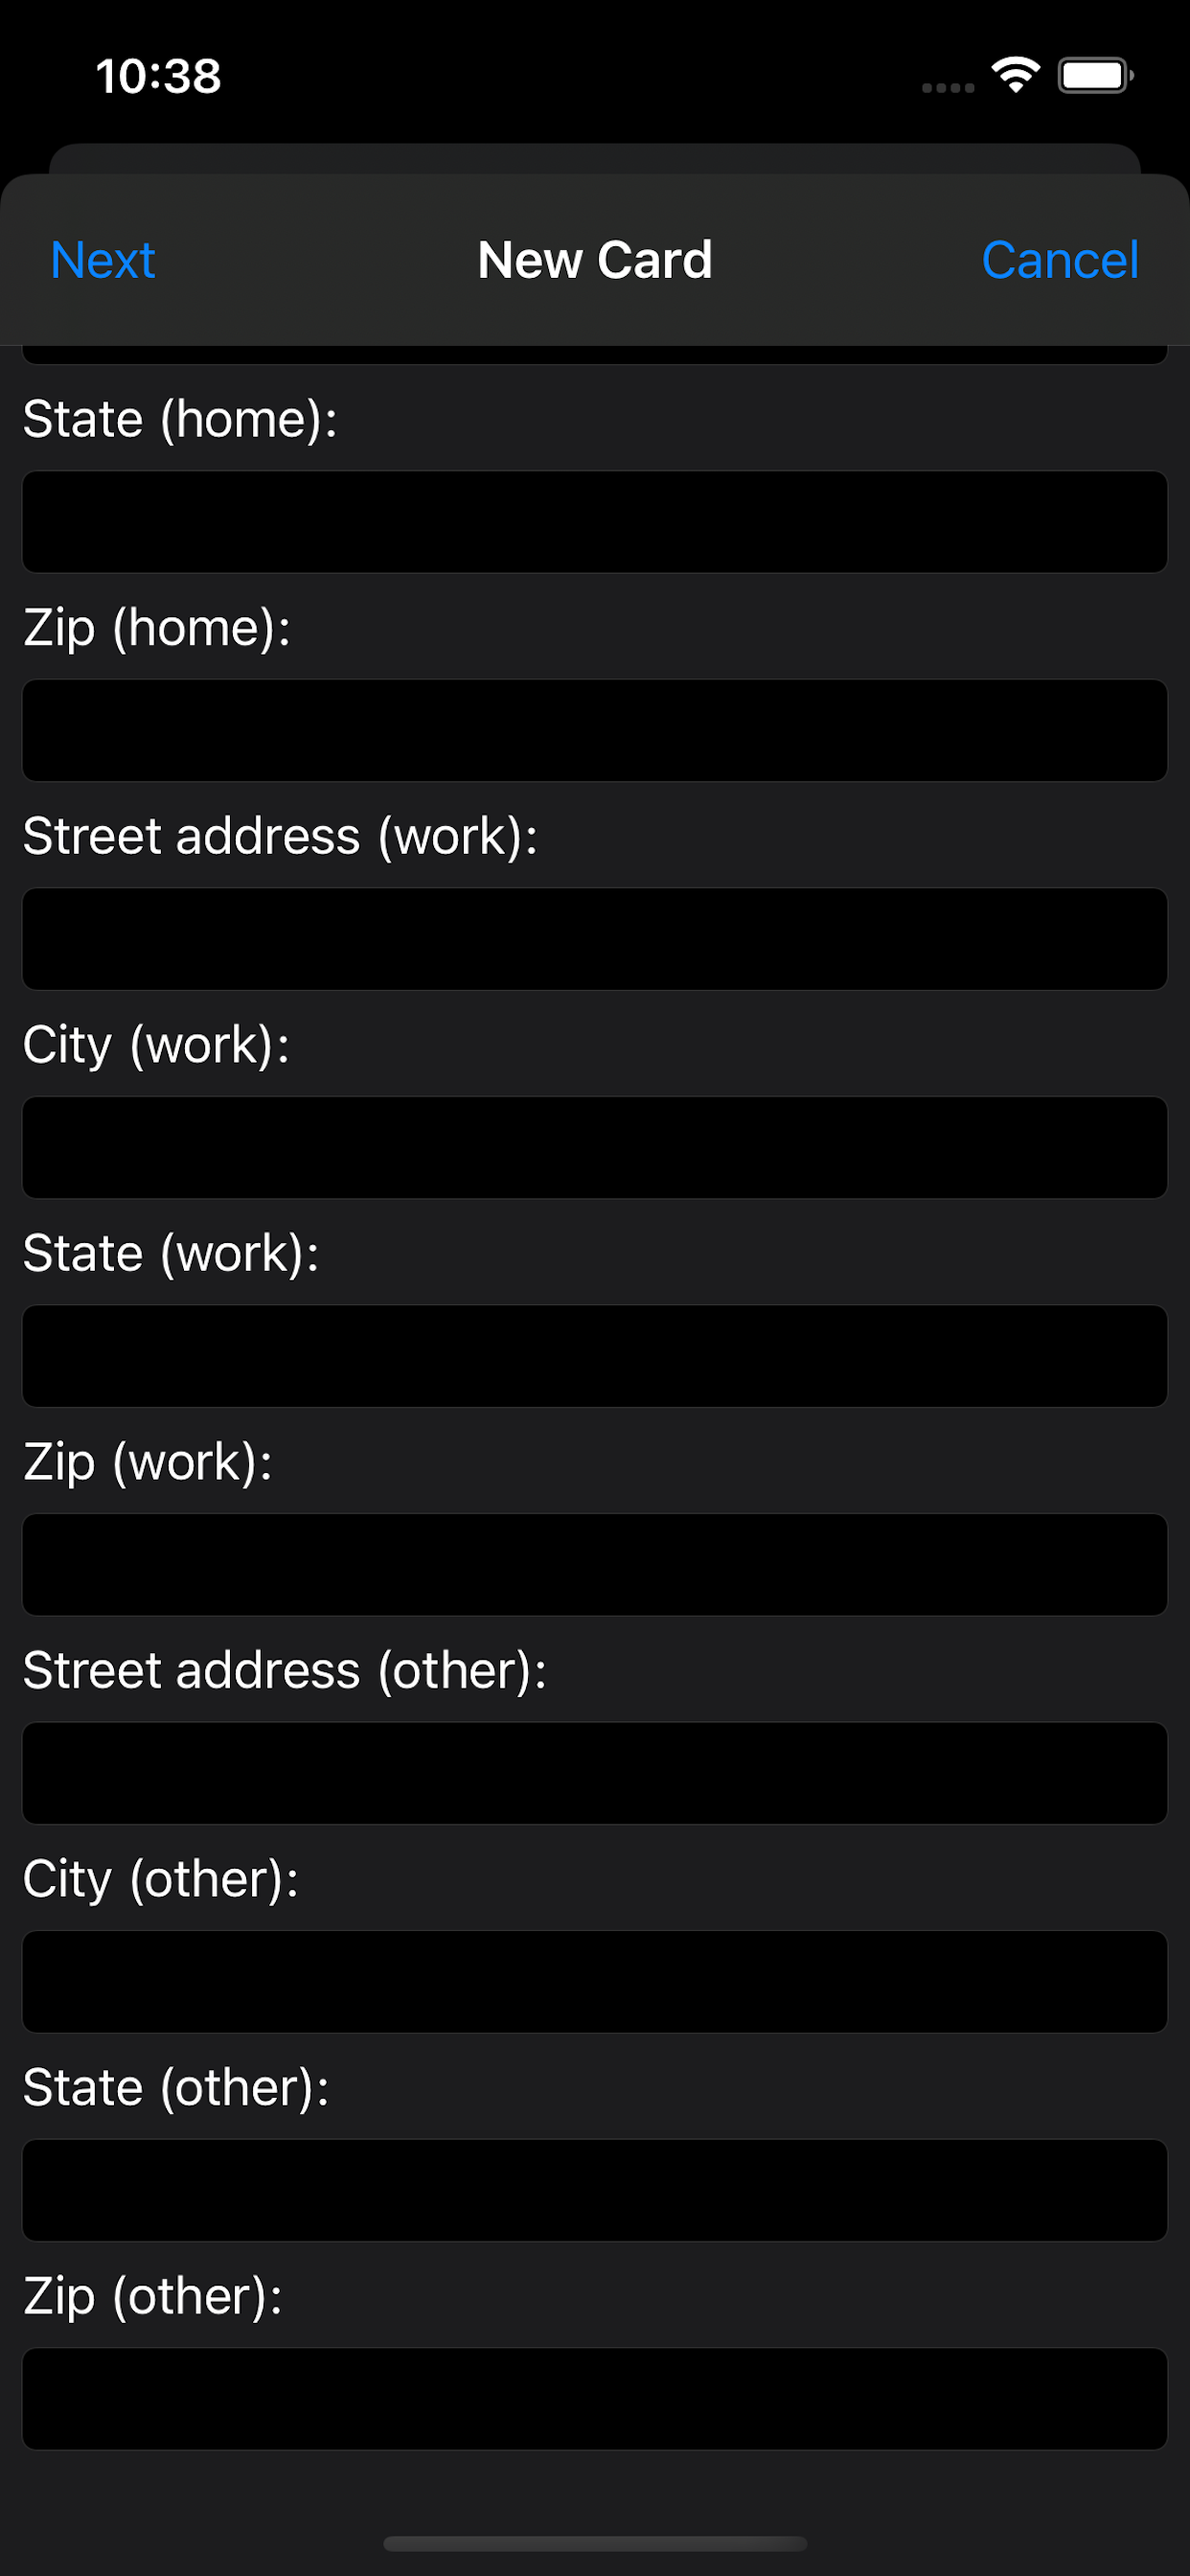
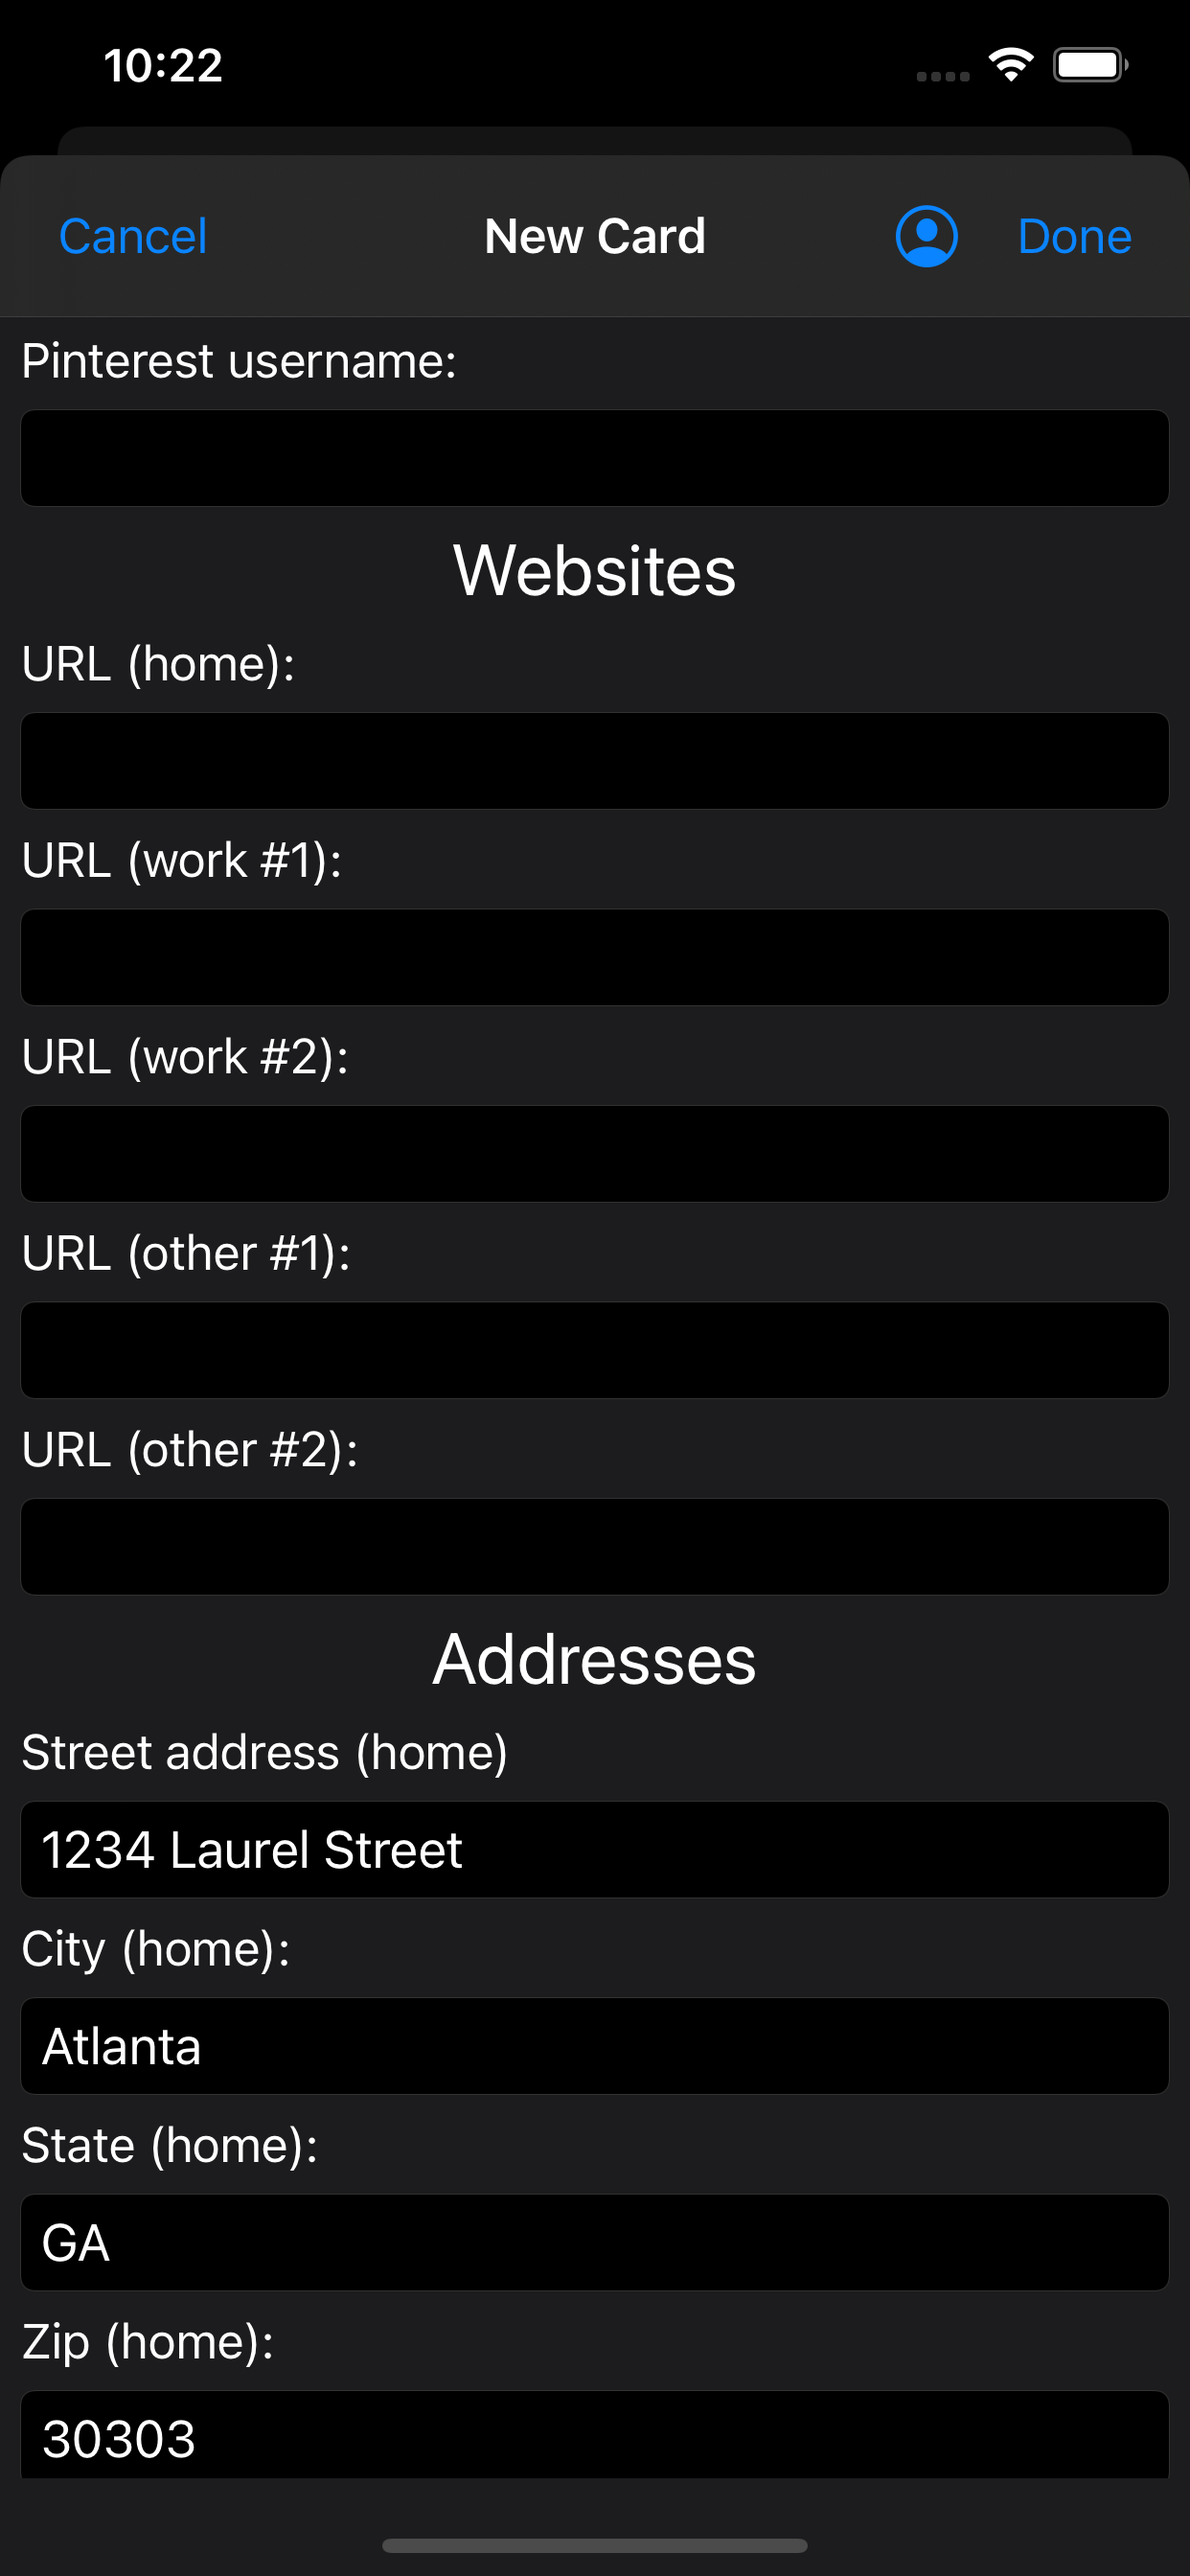
For Contact Cards, removed Mac view from UI, updated images and added siri image, and added a watch tab.

diff --git a/src/pages/ContactCardsPage.js b/src/pages/ContactCardsPage.js
@@ -2,27 +2,39 @@
 import React, { useEffect, useState } from 'react';
 import ContactCardsMobileView from '../components/ContactCardsMobileView'
 import ContactCardsTabletView from '../components/ContactCardsTabletView'
-import ContactCardsDesktopView from '../components/ContactCardsDesktopView'
+import ContactCardsWatchView from '../components/ContactCardsWatchView'
+
 
 const contactCardsInfo={
   title: 'Contact Cards',
-  header: `Have multiple color-coded contact cards for yourself so you 
-  can share what you want with whom you want, whether or not they 
-  have the app.  Share virtually or with a QR code.`,
+  header: `Have multiple named and color-coded contact cards for yourself of your choosing
+  so that you can share what you want with whom you want, whether or not they 
+  have the app.  Share virtually or with a QR code.  No account needed, and 
+  syncs with iCloud.  You can share virtually by Messages, Mail, AirDrop, or
+  by any apps you have that support recieving contacts in vCard format.`,
   detail: `Preview a contact card before sharing it.`,
   qrCode: `When sharing with QR Codes, you can share with colorful QR
   codes.  No neeed to be constrained to black and white.  Your color and 
   filename for the contact card will not be shared.`,
-  sharableInfo: `Shareable information is: first name, last name, nickname,
+  sharableInfo: `Choose color and title for card.  Shareable information is: first name, last name, nickname,
   suffix, prefix, company, job title, department, mobile phone, 2 work phones,
   home phone, other phone, home email, 2 work emails, other email, Twitter username,
-  Facebook URL, LinkedIn URL, home URL, 2 work URLs, 2 other URLs, home address,
-  work address, other address.`,
+  Facebook URL, LinkedIn URL, WhatsApp number, Instagram username, Snapchat username, Pinterest username, 
+  home URL, 2 work URLs, 2 other URLs, home address, work address, other address.`,
   colors: `Color choices are white in dark mode/black in light mode, gray, 
   red, orange, yellow, green, blue, purple, pink, and brown.  Please note: 
   color choices are private to you and will not share when you share the 
   contact as a file, whether virtually or in a QR code.`,
-  widget: `Comes with a widget to display a qr code for a contact card of your choosing.`
+  widget: `Comes with a widget to display a QR code for a contact card of your choosing.`,
+  siri: `Share a QR code of a chosen card with Siri.`
+}
+const contactCardsWatchInfo={
+  title: `Contact Cards Watch Companion App`,
+  header: `Share small contact cards directly from your watch by colorful QR code.  
+  App syncs over iCloud to get your contact cards from the ContactCards app from 
+  your phone or tablet.`,
+  detail: `See contact details directly from the watch so that you can confirm 
+  that you are sharing what you want to share.`
 }
 const ContactCardsPage = () => {
   useEffect(()=>{document.title = "Contact Cards"})
@@ -38,7 +50,7 @@ const ContactCardsPage = () => {
         <div className="text-align-center">
           <span className={getTabClassName('mobile')} onClick={()=>setCurrentTab('mobile')}>Mobile</span>
           <span className={getTabClassName('tablet')} onClick={()=>setCurrentTab('tablet')}>Tablet</span>
-          <span className={getTabClassName('desktop')} onClick={()=>setCurrentTab('desktop')}>Desktop</span>
+          <span className={getTabClassName('watch')} onClick={()=>setCurrentTab('watch')}>Watch</span>
         </div>
         <br/>
         <hr/>
@@ -61,8 +73,8 @@ const ContactCardsPage = () => {
         return (<ContactCardsMobileView info={contactCardsInfo}/>);
       } else if (currentTab==='tablet') {
         return (<ContactCardsTabletView info={contactCardsInfo}/>);
-      } else if (currentTab==='desktop') {
-        return (<ContactCardsDesktopView info={contactCardsInfo}/>);
+      } else if (currentTab==='watch') {
+        return (<ContactCardsWatchView info={contactCardsWatchInfo}/>);
       } else {
         return (<div></div>);
       }

diff --git a/src/components/ContactCardsTabletView.js b/src/components/ContactCardsTabletView.js
@@ -1,24 +1,32 @@
 import React from 'react'
-import ContactCardsMain from "../resources/ContactCardsiPad/ContactCardsMain.png";
+import ContactCardsMain1 from "../resources/ContactCardsiPad/ContactCardsMain1.png";
+import ContactCardsMain2 from "../resources/ContactCardsiPad/ContactCardsMain2.png";
 import ContactCardsQRCode from "../resources/ContactCardsiPad/ContactCardsQRCode.png";
 import { Carousel } from 'react-responsive-carousel';
 import ContactCardsFields1 from "../resources/ContactCardsiPad/ContactCardsFields1.png";
 import ContactCardsFields2 from "../resources/ContactCardsiPad/ContactCardsFields2.png";
 import ContactCardsFields3 from "../resources/ContactCardsiPad/ContactCardsFields3.png";
-import ContactCardColors from "../resources/ContactCardsiPad/ContactCardsColors.png";
+import ContactCardsFields4 from "../resources/ContactCardsiPad/ContactCardsFields4.png";
 import ContactCardsWidget from "../resources/ContactCardsiPad/ContactCardsWidget.png";
-
+import ContactCardsSiri from "../resources/ContactCardsiPad/ContactCardsSiri.png";
 
 const ContactCardsTabletView=(props) => {
   return (
     <div className='text-align-center'>
-      <img src={ContactCardsMain} className="iPad-media" alt="Contact Cards"></img>
       <h2 className="text-align-center">
           {props.info.header}
       </h2>
-      <img src={ContactCardsQRCode} className="iPad-media" alt="Contact QR Code"></img>
+      <img src={ContactCardsMain1} className="iPad-media" alt="Contact Cards"></img>
+      <h3 className="text-align-center">
+        {props.info.detail}
+      </h3>
+      <img src={ContactCardsMain2} className="iPad-media" alt="Contact Cards"></img>
       <h3 className="text-align-center">
         {props.info.qrCode}
+      </h3>
+      <img src={ContactCardsQRCode} className="iPad-media" alt="Contact QR Code"></img>
+      <h3 className="text-align-center">
+        {props.info.sharableInfo}
       </h3>
       <div className="carousel">
         <Carousel showArrows={true} className="iPhone-carousel iPad-carousel-media" thumbWidth={100}>
@@ -31,19 +39,19 @@ const ContactCardsTabletView=(props) => {
           <div>
             <img src={ContactCardsFields3} className="iPad-carousel-media" alt="Contact Cards third data input" />
           </div>
+          <div>
+            <img src={ContactCardsFields4} className="iPad-carousel-media" alt="Contact Cards fourth data input" />
+          </div>
         </Carousel>
       </div>
       <h3 className="text-align-center">
-        {props.info.sharableInfo}
-      </h3>
-      <img src={ContactCardColors} className="iPad-media" alt="Contact Cards color choices"></img>
-      <h3 className="text-align-center">
-        {props.info.colors}
+        {props.info.widget}
       </h3>
       <img src={ContactCardsWidget} className="iPad-media" alt="Contact Cards widget"></img>
       <h3 className="text-align-center">
-        {props.info.widget}
+        {props.info.siri}
       </h3>
+      <img src={ContactCardsSiri} className="iPad-media" alt="Contact Cards show QR code with Siri"></img>
       <br/><br/><br/>
     </div>
   )

diff --git a/src/components/ContactCardsMobileView.js b/src/components/ContactCardsMobileView.js
@@ -8,24 +8,29 @@ import ContactCardsFields1 from "../resources/ContactCardsiPhone/ContactCardsFie
 import ContactCardsFields2 from "../resources/ContactCardsiPhone/ContactCardsFields2.png";
 import ContactCardsFields3 from "../resources/ContactCardsiPhone/ContactCardsFields3.png";
 import ContactCardsFields4 from "../resources/ContactCardsiPhone/ContactCardsFields4.png";
-import ContactCardColors from "../resources/ContactCardsiPhone/ContactCardsColors.png";
+import ContactCardsFields5 from "../resources/ContactCardsiPhone/ContactCardsFields5.png";
 import ContactCardsWidget from "../resources/ContactCardsiPhone/ContactCardsWidget.png";
+import ContactCardsSiri from "../resources/ContactCardsiPhone/ContactCardsSiri.png";
+
 
 
 const ContactCardsMobileView=(props) => {
   return (
     <div className='text-align-center'>
-      <img src={ContactCardsMain} className="iPhone-media" alt="Contact Cards Table View"></img>
       <h2 className="text-align-center">
           {props.info.header}
       </h2>
-      <img src={ContactCardsDetail} className="iPhone-media" alt="Contact Card Detail"></img>
+      <img src={ContactCardsMain} className="iPhone-media" alt="Contact Cards Table View"></img>
       <h3 className="text-align-center">
         {props.info.detail}
       </h3>
-      <img src={ContactCardsQRCode} className="iPhone-media" alt="Contact QR Code"></img>
+      <img src={ContactCardsDetail} className="iPhone-media" alt="Contact Card Detail"></img>
       <h3 className="text-align-center">
         {props.info.qrCode}
+      </h3>
+      <img src={ContactCardsQRCode} className="iPhone-media" alt="Contact QR Code"></img>
+      <h3 className="text-align-center">
+        {props.info.sharableInfo}
       </h3>
       <div className="carousel">
         <Carousel showArrows={true} className="iPhone-carousel iPhone-carousel-media" thumbWidth={100}>
@@ -41,19 +46,19 @@ const ContactCardsMobileView=(props) => {
           <div>
             <img src={ContactCardsFields4} className="iPhone-carousel-media" alt="Contact Cards fourth data input" />
           </div>
+          <div>
+            <img src={ContactCardsFields5} className="iPhone-carousel-media" alt="Contact Cards fourth data input" />
+          </div>
         </Carousel>
       </div>
       <h3 className="text-align-center">
-        {props.info.sharableInfo}
-      </h3>
-      <img src={ContactCardColors} className="iPhone-media" alt="Contact Cards color choices"></img>
-      <h3 className="text-align-center">
-        {props.info.colors}
-      </h3>
-      <img src={ContactCardsWidget} className="iPhone-media" alt="Contact Cards widget"></img>
-      <h3 className="text-align-center">
         {props.info.widget}
       </h3>
+      <img src={ContactCardsWidget} className="iPhone-media" alt="Contact Cards QR code widget"></img>
+      <h3 className="text-align-center">
+        {props.info.siri}
+      </h3>
+      <img src={ContactCardsSiri} className="iPhone-media" alt="Contact Cards show QR code with Siri"></img>
       <br/><br/><br/>
     </div>
   )

diff --git a/src/components/ContactCardsWatchView.js b/src/components/ContactCardsWatchView.js
@@ -1,0 +1,31 @@
+import React from 'react'
+import ContactCardsWatchTable1 from '../resources/ContactCardsWatch/ContactCardsWatchTable1.png'
+import ContactCardsWatchTable2 from '../resources/ContactCardsWatch/ContactCardsWatchTable2.png'
+import ContactCardsWatchQRPurple from '../resources/ContactCardsWatch/ContactCardsWatchQRPurple.png'
+import ContactCardsWatchQROrange from '../resources/ContactCardsWatch/ContactCardsWatchQROrange.png'
+import ContactCardsWatchQRBlue from '../resources/ContactCardsWatch/ContactCardsWatchQRBlue.png'
+import ContactCardsWatchQRGreen from '../resources/ContactCardsWatch/ContactCardsWatchQRGreen.png'
+import ContactCardsWatchQRYellow from '../resources/ContactCardsWatch/ContactCardsWatchQRYellow.png'
+import ContactCardsWatchDetails from '../resources/ContactCardsWatch/ContactCardsWatchDetails.png'
+
+const ContactCardsWatchView=(props) => {
+  return (
+    <div className='text-align-center'>
+      <h2 className="text-align-center">
+          {props.info.header}
+      </h2>
+      <img src={ContactCardsWatchTable1} className="watch-media" alt="Main table view for contact cards 1"></img>
+      <img src={ContactCardsWatchTable2} className="watch-media" alt="Main table view for contact cards 2"></img>
+      <img src={ContactCardsWatchQRBlue} className="watch-media" alt="Blue contact QR code"></img>
+      <img src={ContactCardsWatchQRGreen} className="watch-media" alt="Green contact QR code"></img>
+      <img src={ContactCardsWatchQRYellow} className="watch-media" alt="Yellow contact QR code"></img>
+      <h3 className="text-align-center">
+        {props.info.detail}
+      </h3>
+      <img src={ContactCardsWatchDetails} className="watch-media" alt="Contact card details"></img>
+      <br/><br/><br/>
+    </div>
+  )
+}
+
+export default ContactCardsWatchView;

diff --git a/src/components/Footer.js b/src/components/Footer.js
@@ -4,7 +4,7 @@ const Footer = () => {
     return (<div>
     <br></br><br></br>
     <div className="text-align-center copyright">
-        Copyright  © 2020  Matt Roberts
+        Copyright  © 2020-2021  Matt Roberts
     </div>
     <br></br><br></br>
     </div>);

diff --git a/src/styles/App.css b/src/styles/App.css
@@ -123,6 +123,12 @@ video {
   margin: 20px;
 }
 
+.watch-media {
+  width: 130px;
+  max-width: 130;
+  margin: 5px;
+}
+
 .tab {
   font-size: 20px;
   margin: 20px;
